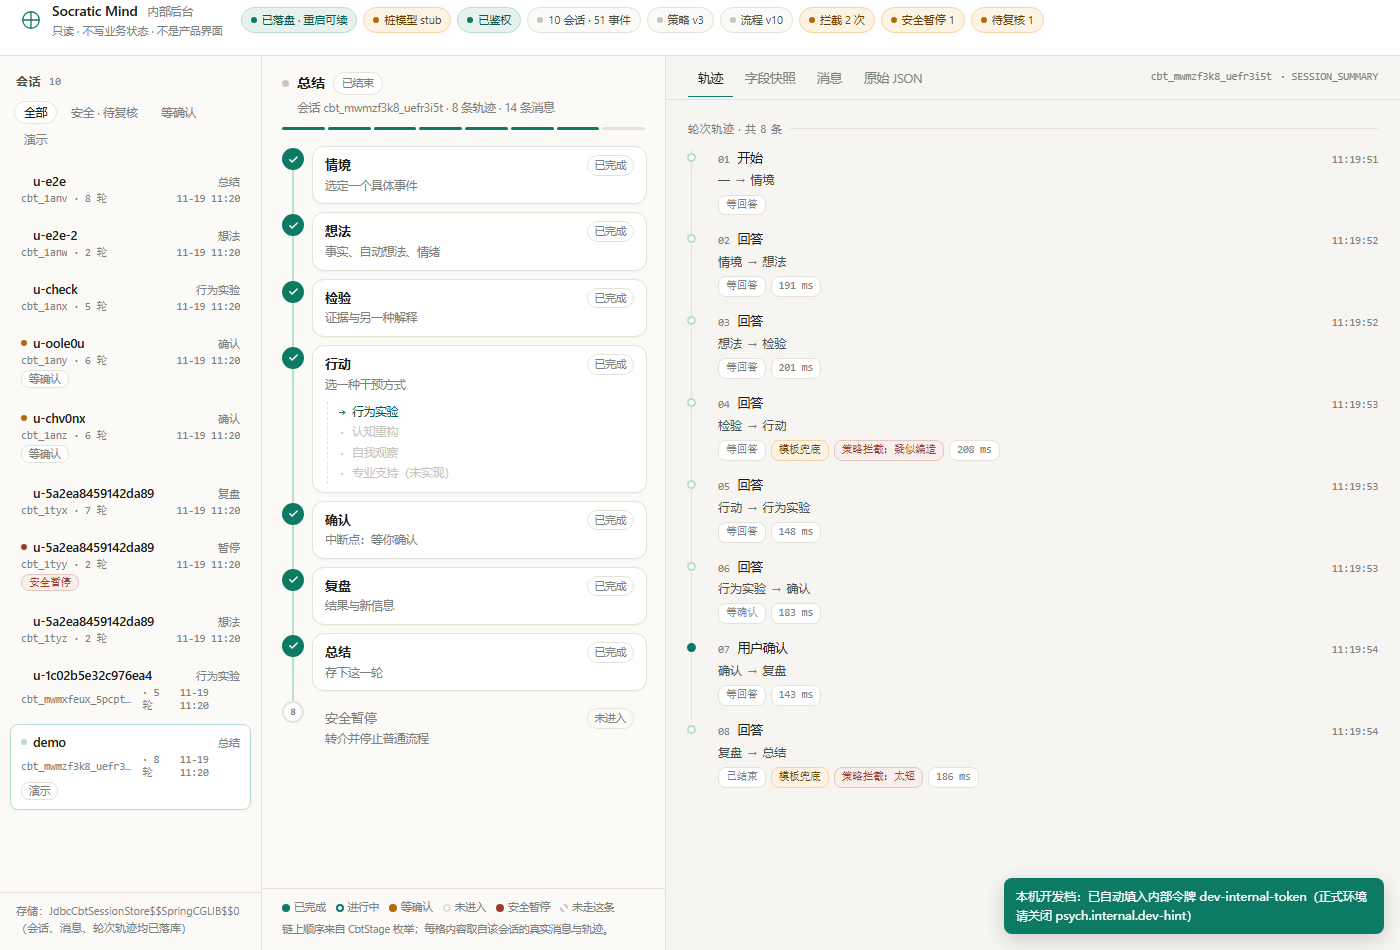
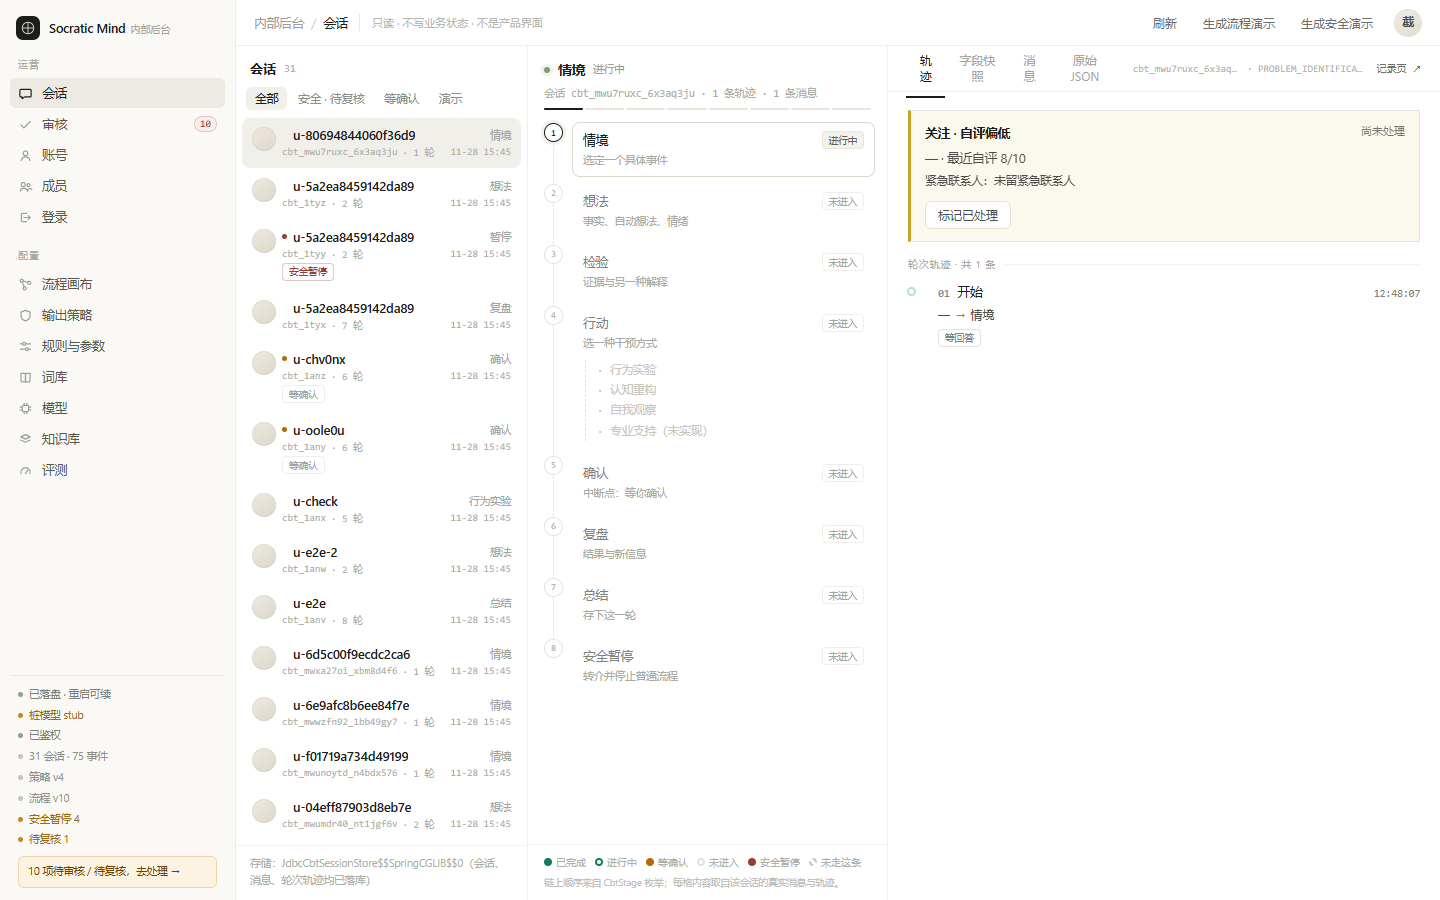
docs: 更新 v0.7.0 界面截图并修复设置页裁切

diff --git a/backend/psych-app/src/main/resources/static/internal/app.css b/backend/psych-app/src/main/resources/static/internal/app.css
@@ -2286,6 +2286,12 @@ a.btn {
   overflow-y: auto;
 }
 
+/* main 是 grid 时，卡片不能沿用流程画布的 overflow:hidden：
+   它会把卡片的最小高度压成 0，内容被裁在首屏，滚动条也不会出现。 */
+.app.is-shell > main > section.card {
+  overflow: visible;
+}
+
 .app.is-shell .actor-label {
   display: inline-flex;
   align-items: center;

diff --git a/README.md b/README.md
@@ -9,7 +9,8 @@ CBT 的每一步都能说清走到哪、谁确认过。
 
 ![房间：点一下小人，它才开始问](docs/assets/current/room.png)
 
-*入口是一间房间，不是聊天列表。点墙角的小人开口，说完的话变成纸片飞出窗外；地上五颗石子表示走到第几步。*
+*入口是一间房间，不是聊天列表。点墙角的小人开口，说完的话变成纸片飞出窗外；地上五颗石子表示走到第几步。
+墙角那扇门通向"门外"——没有步骤，只有一来一回。*
 
 ## 它是什么
 
@@ -20,6 +21,10 @@ CBT 的每一步都能说清走到哪、谁确认过。
 | **知识学习** | 回答心理学与治疗理论问题，每条结论附出处 | 证据不足时明确拒答，不补全 |
 | **CBT 自助** | 围绕一个具体困扰走完"情境 → 自动思维 → 认知检验 → 微型行动 → 复盘" | "确认"必须由用户自己按下 |
 | **门外** | 没有步骤的直接对话，想从哪句开始都行 | 安全筛查一轮不跳；不诊断、不劝、不承诺疗效 |
+
+![门外：没有步骤，也没有石子](docs/assets/current/outside.png)
+
+*走出门之后没有阶段、没有石子，只有天空和一条输入框。安全筛查与提示词边界与屋里同一套，触发时同样停在转介页。*
 
 ## 它不是什么
 
@@ -178,8 +183,10 @@ backend/
 
 规则与用例都可增删；保存前逐条回放用例，失败会指出哪一句不再符合预期。每次保存留快照，可对比、可回滚。
 
+![成员：谁在什么位置，能签什么字](docs/assets/current/members.png)
+
 后台分四种职责：管理员、运营、审核、只读。入库、改配置、签字、管成员各归各的；会话原文默认只给管理员，
-审核者只能看已进入安全流程的会话。成员与口令在“运营 → 成员”里由管理员当面设定。
+审核者只能看已进入安全流程的会话。成员与口令在“运营 → 成员”里由管理员当面设定；撤销会立刻让该成员所有设备下线。
 
 ## 当前状态
 

diff --git a/docs/06-评估/01-版本记录.md b/docs/06-评估/01-版本记录.md
@@ -45,7 +45,8 @@ updated: 2026-11-28
 - **知识库补齐运维动作**：导入 `.md/.markdown/.txt`、按文档 id 替换内容（版本 +1、可见范围不变、
   回到待审）、退回归档、下架软删除。审核页拆成配置审核 / 会话复核 / 知识库文档三块；
   通过前必须先勾完本对象的清单，后端同样校验，不靠页面自觉。
-- **其余**：后台统一外壳与子导航；账号页改版并补退出登录；向量维度不一致时拒绝启动，
+- **其余**：后台统一外壳与子导航；账号页改版并补退出登录；修复设置页卡片沿用
+  `overflow:hidden` 导致下半页被裁且无法滚动；向量维度不一致时拒绝启动，
   显式打开 `PSYCH_AI_VECTOR_MIGRATE` 才重建列并重嵌入；本机演示档可放宽后台口令强度（默认关闭）。
 - 测试 206 → 212（职责矩阵、未标注职责的写接口、门外安全与归属）。
 
